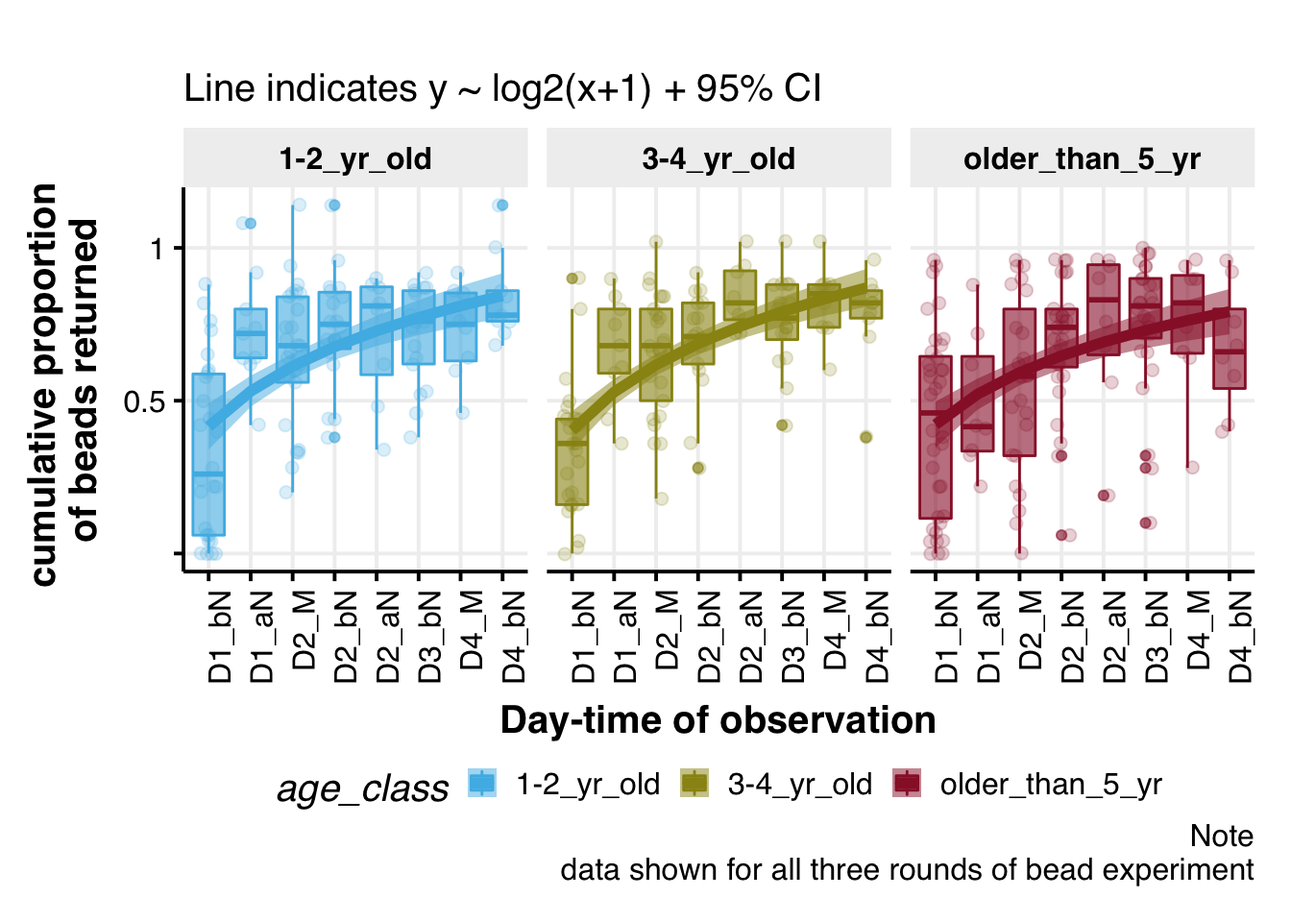
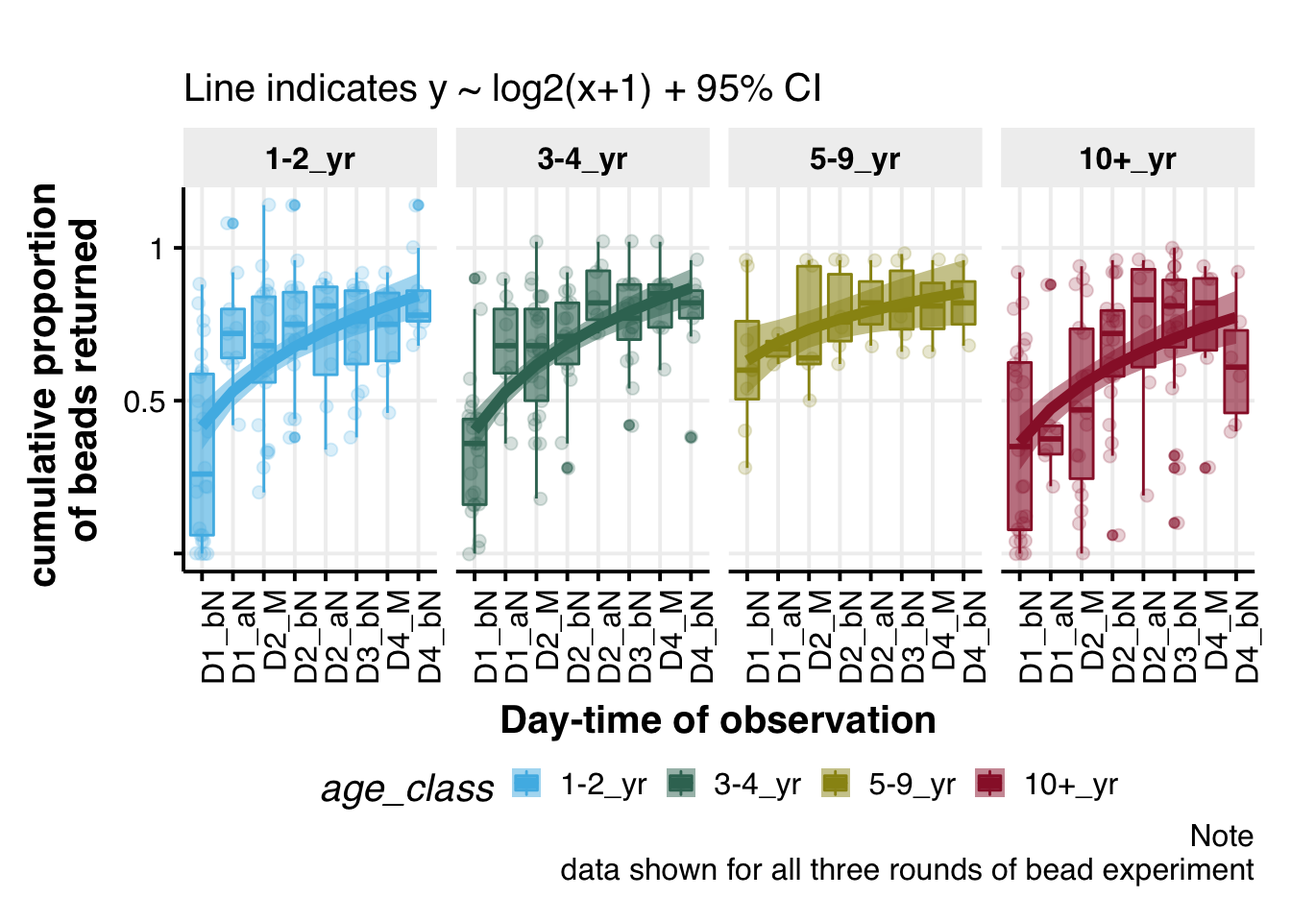
prelim analyses I

diff --git a/docs/bead_data_2022.html b/docs/bead_data_2022.html
@@ -437,11 +437,13 @@ div.tocify {
 
 <h1 class="title toc-ignore">Deborah_bead_data</h1>
 <h4 class="author">Biplabendu Das</h4>
-<h4 class="date">05 September, 2022</h4>
+<h4 class="date">06 September, 2022</h4>
 
 </div>
 
 
+<pre class="r"><code>## Set color scheme for age classes
+age_colors &lt;- c(&quot;#4EB9E6&quot;, &quot;#397362&quot;, &quot;#999215&quot;, &quot;#991D34&quot;, &quot;#F29544&quot;)</code></pre>
 <div id="overviewgoals" class="section level2">
 <h2>Overview/Goals</h2>
 <p>Email from Deborah:</p>
@@ -685,7 +687,7 @@ old.summ %&gt;%
                 y=cum_prop, group=ID, col=ID),
             size=2,
             alpha=0.6) +
-  facet_grid(~ID) +
+  facet_wrap(~ID, nrow = 2) +
   theme_Publication(base_size = 10) +
   # scale_color_manual(values=c(&quot;darkgreen&quot;,&quot;darkred&quot;)) +
   
@@ -723,8 +725,8 @@ old.summ %&gt;%
   # scale_fill_viridis_d(option=&quot;cividis&quot;) +
   # scale_color_viridis_d(option = &quot;cividis&quot;)
   
-  scale_fill_manual(values = c(&quot;#4EB9E6&quot;, &quot;#999215&quot;, &quot;#991D34&quot;)) +
-  scale_color_manual(values = c(&quot;#4EB9E6&quot;, &quot;#999215&quot;, &quot;#991D34&quot;)) +
+  scale_fill_manual(values = age_colors) +
+  scale_color_manual(values = age_colors) +
   
   labs(x = &quot;Day-time of observation&quot;,
        y= &quot;cumulative proportion \nof beads returned&quot;,
@@ -858,7 +860,14 @@ tidydat &lt;- rbind(old.summ, tidydat.2022) %&gt;%
                                levels = c(&quot;D1_bN&quot;, &quot;D1_aN&quot;,
                                           &quot;D2_M&quot;, &quot;D2_bN&quot;, &quot;D2_aN&quot;,
                                           &quot;D3_bN&quot;,
-                                          &quot;D4_M&quot;, &quot;D4_bN&quot;)))
+                                          &quot;D4_M&quot;, &quot;D4_bN&quot;))) %&gt;% 
+  mutate(age_class = ifelse(age_obs &lt;= 2, &quot;1-2_yr&quot;,
+                            ifelse(age_obs &gt; 2 &amp; age_obs &lt;= 4, &quot;3-4_yr&quot;,
+                                   ifelse(age_obs &gt;=5 &amp; age_obs &lt; 10, &quot;5-9_yr&quot;,
+                                                 &quot;10+_yr&quot;)))) %&gt;% 
+  mutate(age_class = factor(age_class, 
+                            levels = c(&quot;1-2_yr&quot;, &quot;3-4_yr&quot;,
+                                       &quot;5-9_yr&quot;, &quot;10+_yr&quot;)))
 
 # # use only 2022 data
 # tidydat &lt;- tidydat.2022</code></pre>
@@ -880,7 +889,7 @@ tidydat &lt;- rbind(old.summ, tidydat.2022) %&gt;%
               aes(color=age_class)) +
   # geom_smooth(method = &quot;lm&quot;, formula = y~x, alpha=0.3, aes(color=age_class, lty=age_class)) +
   
-  facet_grid(~bead_color) +
+  facet_wrap(~bead_color, nrow = 1) +
   # coord_flip() +
   # scale_y_continuous(n.breaks = 3,
   #                    labels = c(&quot;&quot;,&quot;0.5&quot;, &quot;1&quot;)) +
@@ -894,8 +903,8 @@ tidydat &lt;- rbind(old.summ, tidydat.2022) %&gt;%
   # scale_fill_viridis_d(option=&quot;cividis&quot;) +
   # scale_color_viridis_d(option = &quot;cividis&quot;)
   
-  scale_fill_manual(values = c(&quot;#4EB9E6&quot;, &quot;#999215&quot;, &quot;#991D34&quot;)) +
-  scale_color_manual(values = c(&quot;#4EB9E6&quot;, &quot;#999215&quot;, &quot;#991D34&quot;)) +
+  scale_fill_manual(values = age_colors) +
+  scale_color_manual(values = age_colors) +
   
   labs(x = &quot;Day-time of observation&quot;,
        y= &quot;cumulative proportion \nof beads returned&quot;,
@@ -935,8 +944,8 @@ tidydat %&gt;%
   # rotate x-axis lables
   theme(axis.text.x=element_text(angle=90,hjust=1))+
   
-  scale_fill_manual(values = c(&quot;#4EB9E6&quot;, &quot;#999215&quot;, &quot;#991D34&quot;)) +
-  scale_color_manual(values = c(&quot;#4EB9E6&quot;, &quot;#999215&quot;, &quot;#991D34&quot;)) +
+  scale_fill_manual(values = age_colors) +
+  scale_color_manual(values = age_colors) +
   
   labs(x = &quot;Day-time of observation&quot;,
        y= &quot;cumulative proportion \nof beads returned&quot;,
@@ -973,8 +982,8 @@ tidydat %&gt;%
   # rotate x-axis lables
   theme(axis.text.x=element_text(angle=90,hjust=1))+
   
-  scale_fill_manual(values = c(&quot;#4EB9E6&quot;, &quot;#999215&quot;, &quot;#991D34&quot;)) +
-  scale_color_manual(values = c(&quot;#4EB9E6&quot;, &quot;#999215&quot;, &quot;#991D34&quot;)) +
+  scale_fill_manual(values = age_colors) +
+  scale_color_manual(values = age_colors) +
   
   labs(x = &quot;Day-time of observation&quot;,
        y= &quot;cumulative proportion \nof beads returned&quot;,
@@ -994,6 +1003,7 @@ tidydat %&gt;%
 <blockquote>
 <p>cumulative number of beads returned / possible number of incoming foragers on Day 1</p>
 </blockquote>
+<p>I am using the total number of foragers going in and out of the colony, for 30 secs, on Day 1 as a proxy for the possible number of incoming foragers.</p>
 <pre class="r"><code># set path to your working directory (change, if necessary)
 path_to_repo2 = &quot;/Users/biplabendudas/Documents/05_postdoc/Deborah_Gordon/04_research/2022/01_field_season_2022/04_field_work/02_rprojects/01_checking_data&quot;
 
@@ -1047,9 +1057,10 @@ tidy.for &lt;-
   select(-first_obs, -second_obs, -was_it_raining) %&gt;% 
   
   
-  group_by(date,observer,colony_ID) %&gt;% 
+  group_by(date,observer,colony_ID,time) %&gt;% 
   mutate(tot_in = sum(in_1,in_2,in_3,in_4,in_5,in_6,in_7,in_8, na.rm = T),
          tot_out = sum(out_1,out_2,out_3,out_4,out_5,out_6,out_7,out_8, na.rm=T)) %&gt;% 
+  mutate(foraging_30s = tot_in+tot_out) %&gt;% 
   ungroup() %&gt;% 
   
   mutate(colony_ID = as.factor(colony_ID),
@@ -1095,13 +1106,13 @@ tidy.for %&lt;&gt;%
   
   mutate(date = as.character(date)) %&gt;% 
   filter(date %in% unique(as.character(bead.dates$date))) %&gt;% 
-  mutate(date = as.Date(date)) %&gt;% 
+  mutate(date = as.Date(date)) %&gt;%
   
   filter(colony_ID %in% bead.colonies) %&gt;% 
   
   left_join(bead.dates, by=c(&quot;date&quot;)) %&gt;% 
 
-  select(date, bead_color, colony_ID, obs_day, time, tot_in, tot_out) %&gt;% 
+  select(date, bead_color, colony_ID, obs_day, time, tot_in, tot_out, foraging_30s) %&gt;% 
   distinct() %&gt;% 
   arrange(bead_color, colony_ID, date) %&gt;% 
   ungroup()
@@ -1117,7 +1128,7 @@ s.tidydat.2022 &lt;-
   
   na.omit() %&gt;% 
   
-  mutate(s_cum_prop = round(cum_prop/tot_in, 2)) %&gt;% 
+  mutate(s_cum_prop = round(cum_prop/foraging_30s, 2)) %&gt;% 
   
   na.omit() %&gt;% 
   filter(s_cum_prop &lt;= 1) %&gt;% 
@@ -1170,7 +1181,14 @@ s.tidydat &lt;-
                                levels = c(&quot;D1_bN&quot;, &quot;D1_aN&quot;,
                                           &quot;D2_M&quot;, &quot;D2_bN&quot;, &quot;D2_aN&quot;,
                                           &quot;D3_bN&quot;,
-                                          &quot;D4_M&quot;, &quot;D4_bN&quot;)))</code></pre>
+                                          &quot;D4_M&quot;, &quot;D4_bN&quot;))) %&gt;% 
+  mutate(age_class = ifelse(age_obs &lt;= 2, &quot;1-2_yr&quot;,
+                            ifelse(age_obs &gt; 2 &amp; age_obs &lt;= 4, &quot;3-4_yr&quot;,
+                                   ifelse(age_obs &gt;=5 &amp; age_obs &lt; 10, &quot;5-9_yr&quot;,
+                                                 &quot;10+_yr&quot;)))) %&gt;% 
+  mutate(age_class = factor(age_class, 
+                            levels = c(&quot;1-2_yr&quot;, &quot;3-4_yr&quot;,
+                                       &quot;5-9_yr&quot;, &quot;10+_yr&quot;)))</code></pre>
 <pre class="r"><code>s.tidydat %&gt;% 
   
   ggplot(aes(x=counted_when, y=s_cum_prop, fill=age_class, color=age_class, group=age_class)) +
@@ -1183,7 +1201,7 @@ s.tidydat &lt;-
               aes(color=age_class)) +
   # geom_smooth(method = &quot;lm&quot;, formula = y~x, alpha=0.3, aes(color=age_class, lty=age_class)) +
   
-  facet_grid(~bead_color) +
+  facet_wrap(~bead_color, nrow = 1) +
   # coord_flip() +
   # scale_y_continuous(n.breaks = 3, labels = c(&quot;&quot;,&quot;0.5&quot;, &quot;1&quot;)) +
   
@@ -1196,8 +1214,8 @@ s.tidydat &lt;-
   # scale_fill_viridis_d(option=&quot;cividis&quot;) +
   # scale_color_viridis_d(option = &quot;cividis&quot;)
   
-  scale_fill_manual(values = c(&quot;#4EB9E6&quot;, &quot;#999215&quot;, &quot;#991D34&quot;)) +
-  scale_color_manual(values = c(&quot;#4EB9E6&quot;, &quot;#999215&quot;, &quot;#991D34&quot;)) +
+  scale_fill_manual(values = age_colors) +
+  scale_color_manual(values = age_colors) +
   
   labs(x = &quot;Day-time of observation&quot;,
        y= &quot;cumulative proportion \nof beads returned&quot;,
@@ -1234,8 +1252,8 @@ s.tidydat %&gt;%
   # rotate x-axis lables
   theme(axis.text.x=element_text(angle=90,hjust=1))+
   
-  scale_fill_manual(values = c(&quot;#4EB9E6&quot;, &quot;#999215&quot;, &quot;#991D34&quot;)) +
-  scale_color_manual(values = c(&quot;#4EB9E6&quot;, &quot;#999215&quot;, &quot;#991D34&quot;)) +
+  scale_fill_manual(values = age_colors) +
+  scale_color_manual(values = age_colors) +
   
   labs(x = &quot;Day-time of observation&quot;,
        y= &quot;cumulative proportion \nof beads returned&quot;,
@@ -1269,8 +1287,8 @@ s.tidydat %&gt;%
   # rotate x-axis lables
   theme(axis.text.x=element_text(angle=90,hjust=1))+
   
-  scale_fill_manual(values = c(&quot;#4EB9E6&quot;, &quot;#999215&quot;, &quot;#991D34&quot;)) +
-  scale_color_manual(values = c(&quot;#4EB9E6&quot;, &quot;#999215&quot;, &quot;#991D34&quot;)) +
+  scale_fill_manual(values = age_colors) +
+  scale_color_manual(values = age_colors) +
   
   labs(x = &quot;Day-time of observation&quot;,
        y= &quot;cumulative proportion \nof beads returned&quot;,
@@ -1278,6 +1296,53 @@ s.tidydat %&gt;%
        caption = &quot;Note
        data shown for all three rounds of bead experiment&quot;)</code></pre>
 <p><img src="bead_data_2022_files/figure-html/plot_normalized_bead_returns-3.png" width="672" /></p>
+</div>
+<div id="prelim-analyses-i" class="section level2">
+<h2>Prelim Analyses I</h2>
+<pre class="r"><code>s.tidydat.mod &lt;- s.tidydat %&gt;% mutate(log_s_cum_prop = log2(s_cum_prop+1))
+
+
+mod.full &lt;- lme4::lmer(log_s_cum_prop ~ age_class + counted_when + (1|colonyID) + (1|bead_color) ,
+                 data=s.tidydat.mod, REML=F)
+mod.red.1 &lt;- lme4::lmer(log_s_cum_prop ~ counted_when + (1|colonyID) + (1|bead_color) ,
+                 data=s.tidydat.mod, REML=F)
+anova(mod.full, mod.red.1, test=&quot;Chisq&quot;)</code></pre>
+<pre><code>## Data: s.tidydat.mod
+## Models:
+## mod.red.1: log_s_cum_prop ~ counted_when + (1 | colonyID) + (1 | bead_color)
+## mod.full: log_s_cum_prop ~ age_class + counted_when + (1 | colonyID) + 
+## mod.full:     (1 | bead_color)
+##           Df     AIC     BIC logLik deviance  Chisq Chi Df Pr(&gt;Chisq)   
+## mod.red.1 11 -1695.1 -1652.7 858.55  -1717.1                            
+## mod.full  14 -1704.7 -1650.8 866.37  -1732.7 15.642      3   0.001343 **
+## ---
+## Signif. codes:  0 &#39;***&#39; 0.001 &#39;**&#39; 0.01 &#39;*&#39; 0.05 &#39;.&#39; 0.1 &#39; &#39; 1</code></pre>
+<pre class="r"><code>## Let&#39;s look at the summary of the model
+lmerTest::ranova(mod.full)</code></pre>
+<pre><code>## ANOVA-like table for random-effects: Single term deletions
+## 
+## Model:
+## log_s_cum_prop ~ age_class + counted_when + (1 | colonyID) + (1 | bead_color)
+##                  npar logLik     AIC     LRT Df Pr(&gt;Chisq)    
+## &lt;none&gt;             14 866.37 -1704.7                          
+## (1 | colonyID)     13 804.10 -1582.2 124.548  1  &lt; 2.2e-16 ***
+## (1 | bead_color)   13 853.92 -1681.8  24.904  1  6.027e-07 ***
+## ---
+## Signif. codes:  0 &#39;***&#39; 0.001 &#39;**&#39; 0.01 &#39;*&#39; 0.05 &#39;.&#39; 0.1 &#39; &#39; 1</code></pre>
+<pre class="r"><code>## Calculate the p-values for the fixed effects
+## Source: https://mspeekenbrink.github.io/sdam-r-companion/linear-mixed-effects-models.html
+afex::mixed(log_s_cum_prop ~ age_class + counted_when + (1|colonyID) + (1|bead_color) ,
+                 data=s.tidydat.mod, check_contrasts = T, test_intercept = F, method=&quot;KR&quot;)</code></pre>
+<pre><code>## Mixed Model Anova Table (Type 3 tests, KR-method)
+## 
+## Model: log_s_cum_prop ~ age_class + counted_when + (1 | colonyID) + 
+## Model:     (1 | bead_color)
+## Data: s.tidydat.mod
+##         Effect        df         F p.value
+## 1    age_class  3, 29.35   5.93 **    .003
+## 2 counted_when 7, 305.82 10.41 ***   &lt;.001
+## ---
+## Signif. codes:  0 &#39;***&#39; 0.001 &#39;**&#39; 0.01 &#39;*&#39; 0.05 &#39;+&#39; 0.1 &#39; &#39; 1</code></pre>
 <hr />
 </div>
 <div id="extras" class="section level2">
@@ -1286,7 +1351,7 @@ s.tidydat %&gt;%
   select(colonyID, age_obs, bead_color, date, counted_when, cum_prop, s_cum_prop) %&gt;% 
   DT::datatable(rownames = F)</code></pre>
 <div id="htmlwidget-a4a7814db74a3252d700" style="width:100%;height:auto;" class="datatables html-widget"></div>
-<script type="application/json" data-for="htmlwidget-a4a7814db74a3252d700">{"x":{"filter":"none","data":[["810","810","810","810","810","810","922","922","922","922","922","922","961","961","961","969","969","969","1131","1131","1131","1131","1131","1131","1288","1288","1288","1338","1338","1338","1368","1368","1368","1393","1393","1393","1581","1581","1581","1581","1587","1587","1587","1587","1570","1570","1570","1570","1541","1541","1541","1541","1542","1542","1542","1542","1571","1571","1571","1571","1536","1536","1536","1536","1536","1536","1536","1536","1587","1587","1587","1587","1587","1570","1570","1570","1570","1570","1541","1541","1541","1541","1541","1542","1542","1542","1542","1542","1533","1533","1533","1533","1533","1552","1552","1552","1552","1552","1581","1581","1581","1581","1581","1587","1587","1587","1587","1587","1541","1541","1541","1541","1541","1542","1542","1542","1542","1542","1536","1536","1536","1536","1536","1536","1536","1536","1536","1536","1533","1533","1533","1533","1533","1504","1504","1504","1504","1506","1506","1506","1506","1512","1512","1512","1512","1559","1559","1559","1559","1486","1486","1486","1486","1504","1504","1504","1504","1504","1506","1506","1506","1506","1506","1512","1512","1512","1512","1512","1559","1559","1559","1559","1559","1486","1486","1486","1486","1486","1503","1503","1503","1503","1503","1512","1512","1512","1512","1512","1559","1559","1559","1559","1559","1546","1546","1546","1546","1546","1486","1486","1486","1486","1486","1503","1503","1503","1503","1503","1452","1452","1452","1452","1450","1450","1450","1450","1440","1440","1440","1440","1452","1452","1452","1452","1452","1450","1450","1450","1450","1450","1452","1452","1452","1452","1452","1450","1450","1450","1450","1450","1440","1440","1440","1440","1440","1393","1393","1393","1393","1393","1393","1393","1393","1393","1393","1368","1368","1368","1368","1368","1368","1368","1368","1368","1368","1368","1368","1368","1368","1288","1288","1288","1288","1317","1317","1317","1317","1317","1288","1288","1288","1288","1288","1233","1233","1233","1233","1242","1242","1242","1242","1233","1233","1233","1233","1233","1242","1242","1242","1242","1242","1233","1233","1233","1233","1233","1242","1242","1242","1242","1242","1107","1107","1107","1107","1107","1107","1107","1107","1107","1017","1017","1017","1017","1017","1017","1017","1017","1017","1017","1131","1131","1131","1131","1131","1131","1131","1131","1131","810","810","810","810","810","810","810","810","810","810","810","810","810","810"],[24,24,24,24,24,24,21,21,21,21,21,21,21,21,21,21,21,21,20,20,20,20,20,20,10,10,10,7,7,7,7,7,7,6,6,6,2,2,2,2,2,2,2,2,2,2,2,2,2,2,2,2,2,2,2,2,2,2,2,2,2,2,2,2,2,2,2,2,2,2,2,2,2,2,2,2,2,2,2,2,2,2,2,2,2,2,2,2,2,2,2,2,2,2,2,2,2,2,2,2,2,2,2,2,2,2,2,2,2,2,2,2,2,2,2,2,2,2,2,2,2,2,2,2,2,2,2,2,2,2,2,2,2,3,3,3,3,3,3,3,3,3,3,3,3,3,3,3,3,3,3,3,3,3,3,3,3,3,3,3,3,3,3,3,3,3,3,3,3,3,3,3,3,3,3,3,3,3,3,3,3,3,3,3,3,3,3,3,3,3,3,3,3,3,3,3,3,3,3,3,3,3,3,3,3,3,3,3,4,4,4,4,4,4,4,4,4,4,4,4,4,4,4,4,4,4,4,4,4,4,4,4,4,4,4,4,4,4,4,4,4,4,4,4,4,7,7,7,7,7,7,7,7,7,7,8,8,8,8,8,8,8,8,8,8,8,8,8,8,11,11,11,11,11,11,11,11,11,11,11,11,11,11,12,12,12,12,12,12,12,12,12,12,12,12,12,12,12,12,12,12,12,12,12,12,12,12,12,12,12,12,17,17,17,17,17,17,17,17,17,20,20,20,20,20,20,20,20,20,20,21,21,21,21,21,21,21,21,21,25,25,25,25,25,25,25,25,25,25,25,25,25,25],["green-21","green-21","green-21","pink-21","pink-21","pink-21","green-21","green-21","green-21","pink-21","pink-21","pink-21","green-21","green-21","green-21","green-21","green-21","green-21","green-21","green-21","green-21","pink-21","pink-21","pink-21","pink-21","pink-21","pink-21","green-21","green-21","green-21","pink-21","pink-21","pink-21","green-21","green-21","green-21","pink","pink","pink","pink","pink","pink","pink","pink","pink","pink","pink","pink","pink","pink","pink","pink","pink","pink","pink","pink","pink","pink","pink","pink","pink","pink","pink","pink","pink","pink","pink","pink","green","green","green","green","green","green","green","green","green","green","green","green","green","green","green","green","green","green","green","green","green","green","green","green","green","blue","blue","blue","blue","blue","blue","blue","blue","blue","blue","blue","blue","blue","blue","blue","blue","blue","blue","blue","blue","blue","blue","blue","blue","blue","blue","blue","blue","blue","blue","blue","blue","blue","blue","blue","blue","blue","blue","blue","blue","pink","pink","pink","pink","pink","pink","pink","pink","pink","pink","pink","pink","pink","pink","pink","pink","pink","pink","pink","pink","green","green","green","green","green","green","green","green","green","green","green","green","green","green","green","green","green","green","green","green","green","green","green","green","green","green","green","green","green","green","blue","blue","blue","blue","blue","blue","blue","blue","blue","blue","blue","blue","blue","blue","blue","blue","blue","blue","blue","blue","blue","blue","blue","blue","blue","pink","pink","pink","pink","pink","pink","pink","pink","pink","pink","pink","pink","green","green","green","green","green","green","green","green","green","green","blue","blue","blue","blue","blue","blue","blue","blue","blue","blue","blue","blue","blue","blue","blue","green","green","green","green","green","blue","blue","blue","blue","blue","pink","pink","pink","pink","green","green","green","green","green","blue","blue","blue","blue","blue","pink","pink","pink","pink","blue","blue","blue","blue","blue","blue","blue","blue","blue","blue","pink","pink","pink","pink","pink","pink","pink","pink","green","green","green","green","green","green","green","green","green","green","blue","blue","blue","blue","blue","blue","blue","blue","blue","blue","pink","pink","pink","pink","green","green","green","green","green","green","green","green","green","green","blue","blue","blue","blue","blue","pink","pink","pink","pink","green","green","green","green","green","pink","pink","pink","pink","green","green","green","green","green","blue","blue","blue","blue","blue"],["2021-08-24","2021-08-25","2021-08-26","2021-08-26","2021-08-27","2021-08-28","2021-08-23","2021-08-24","2021-08-25","2021-08-25","2021-08-26","2021-08-27","2021-08-24","2021-08-25","2021-08-26","2021-08-24","2021-08-25","2021-08-26","2021-08-23","2021-08-24","2021-08-25","2021-08-25","2021-08-26","2021-08-27","2021-08-26","2021-08-27","2021-08-28","2021-08-23","2021-08-24","2021-08-25","2021-08-25","2021-08-26","2021-08-27","2021-08-23","2021-08-24","2021-08-25","2022-08-16","2022-08-16","2022-08-16","2022-08-16","2022-08-16","2022-08-16","2022-08-16","2022-08-16","2022-08-16","2022-08-16","2022-08-16","2022-08-16","2022-08-16","2022-08-16","2022-08-16","2022-08-16","2022-08-16","2022-08-16","2022-08-16","2022-08-16","2022-08-16","2022-08-16","2022-08-16","2022-08-16","2022-08-16","2022-08-16","2022-08-16","2022-08-16","2022-08-16","2022-08-16","2022-08-16","2022-08-16","2022-08-22","2022-08-22","2022-08-22","2022-08-22","2022-08-22","2022-08-22","2022-08-22","2022-08-22","2022-08-22","2022-08-22","2022-08-22","2022-08-22","2022-08-22","2022-08-22","2022-08-22","2022-08-22","2022-08-22","2022-08-22","2022-08-22","2022-08-22","2022-08-22","2022-08-22","2022-08-22","2022-08-22","2022-08-22","2022-08-26","2022-08-26","2022-08-26","2022-08-26","2022-08-26","2022-08-26","2022-08-26","2022-08-26","2022-08-26","2022-08-26","2022-08-26","2022-08-26","2022-08-26","2022-08-26","2022-08-26","2022-08-26","2022-08-26","2022-08-26","2022-08-26","2022-08-26","2022-08-26","2022-08-26","2022-08-26","2022-08-26","2022-08-26","2022-08-26","2022-08-26","2022-08-26","2022-08-26","2022-08-26","2022-08-26","2022-08-26","2022-08-26","2022-08-26","2022-08-26","2022-08-26","2022-08-26","2022-08-26","2022-08-26","2022-08-26","2022-08-16","2022-08-16","2022-08-16","2022-08-16","2022-08-16","2022-08-16","2022-08-16","2022-08-16","2022-08-16","2022-08-16","2022-08-16","2022-08-16","2022-08-16","2022-08-16","2022-08-16","2022-08-16","2022-08-16","2022-08-16","2022-08-16","2022-08-16","2022-08-22","2022-08-22","2022-08-22","2022-08-22","2022-08-22","2022-08-22","2022-08-22","2022-08-22","2022-08-22","2022-08-22","2022-08-22","2022-08-22","2022-08-22","2022-08-22","2022-08-22","2022-08-22","2022-08-22","2022-08-22","2022-08-22","2022-08-22","2022-08-22","2022-08-22","2022-08-22","2022-08-22","2022-08-22","2022-08-22","2022-08-22","2022-08-22","2022-08-22","2022-08-22","2022-08-26","2022-08-26","2022-08-26","2022-08-26","2022-08-26","2022-08-26","2022-08-26","2022-08-26","2022-08-26","2022-08-26","2022-08-26","2022-08-26","2022-08-26","2022-08-26","2022-08-26","2022-08-26","2022-08-26","2022-08-26","2022-08-26","2022-08-26","2022-08-26","2022-08-26","2022-08-26","2022-08-26","2022-08-26","2022-08-16","2022-08-16","2022-08-16","2022-08-16","2022-08-16","2022-08-16","2022-08-16","2022-08-16","2022-08-16","2022-08-16","2022-08-16","2022-08-16","2022-08-22","2022-08-22","2022-08-22","2022-08-22","2022-08-22","2022-08-22","2022-08-22","2022-08-22","2022-08-22","2022-08-22","2022-08-26","2022-08-26","2022-08-26","2022-08-26","2022-08-26","2022-08-26","2022-08-26","2022-08-26","2022-08-26","2022-08-26","2022-08-26","2022-08-26","2022-08-26","2022-08-26","2022-08-26","2022-08-22","2022-08-22","2022-08-22","2022-08-22","2022-08-22","2022-08-26","2022-08-26","2022-08-26","2022-08-26","2022-08-26","2022-08-16","2022-08-16","2022-08-16","2022-08-16","2022-08-22","2022-08-22","2022-08-22","2022-08-22","2022-08-22","2022-08-26","2022-08-26","2022-08-26","2022-08-26","2022-08-26","2022-08-16","2022-08-16","2022-08-16","2022-08-16","2022-08-26","2022-08-26","2022-08-26","2022-08-26","2022-08-26","2022-08-26","2022-08-26","2022-08-26","2022-08-26","2022-08-26","2022-08-16","2022-08-16","2022-08-16","2022-08-16","2022-08-16","2022-08-16","2022-08-16","2022-08-16","2022-08-22","2022-08-22","2022-08-22","2022-08-22","2022-08-22","2022-08-22","2022-08-22","2022-08-22","2022-08-22","2022-08-22","2022-08-26","2022-08-26","2022-08-26","2022-08-26","2022-08-26","2022-08-26","2022-08-26","2022-08-26","2022-08-26","2022-08-26","2022-08-16","2022-08-16","2022-08-16","2022-08-16","2022-08-22","2022-08-22","2022-08-22","2022-08-22","2022-08-22","2022-08-22","2022-08-22","2022-08-22","2022-08-22","2022-08-22","2022-08-26","2022-08-26","2022-08-26","2022-08-26","2022-08-26","2022-08-16","2022-08-16","2022-08-16","2022-08-16","2022-08-22","2022-08-22","2022-08-22","2022-08-22","2022-08-22","2022-08-16","2022-08-16","2022-08-16","2022-08-16","2022-08-22","2022-08-22","2022-08-22","2022-08-22","2022-08-22","2022-08-26","2022-08-26","2022-08-26","2022-08-26","2022-08-26"],["D1_bN","D2_bN","D3_bN","D1_bN","D2_bN","D3_bN","D1_bN","D2_bN","D3_bN","D1_bN","D2_bN","D3_bN","D1_bN","D2_bN","D3_bN","D1_bN","D2_bN","D3_bN","D1_bN","D2_bN","D3_bN","D1_bN","D2_bN","D3_bN","D1_bN","D2_bN","D3_bN","D1_bN","D2_bN","D3_bN","D1_bN","D2_bN","D3_bN","D1_bN","D2_bN","D3_bN","D1_bN","D2_M","D2_bN","D3_bN","D1_bN","D2_M","D2_bN","D3_bN","D1_bN","D2_M","D2_bN","D3_bN","D1_bN","D2_M","D2_bN","D3_bN","D1_bN","D2_M","D2_bN","D3_bN","D1_bN","D2_M","D2_bN","D3_bN","D1_bN","D1_bN","D2_M","D2_M","D2_bN","D2_bN","D3_bN","D3_bN","D1_bN","D1_aN","D2_M","D2_bN","D4_bN","D1_bN","D1_aN","D2_M","D2_bN","D4_bN","D1_bN","D1_aN","D2_M","D2_bN","D4_bN","D1_bN","D1_aN","D2_M","D2_bN","D4_bN","D1_bN","D1_aN","D2_M","D2_bN","D4_bN","D1_bN","D2_M","D2_aN","D3_bN","D4_M","D1_bN","D2_M","D2_aN","D3_bN","D4_M","D1_bN","D2_M","D2_aN","D3_bN","D4_M","D1_bN","D2_M","D2_aN","D3_bN","D4_M","D1_bN","D2_M","D2_aN","D3_bN","D4_M","D1_bN","D1_bN","D2_M","D2_M","D2_aN","D2_aN","D3_bN","D3_bN","D4_M","D4_M","D1_bN","D2_M","D2_aN","D3_bN","D4_M","D1_bN","D2_M","D2_bN","D3_bN","D1_bN","D2_M","D2_bN","D3_bN","D1_bN","D2_M","D2_bN","D3_bN","D1_bN","D2_M","D2_bN","D3_bN","D1_bN","D2_M","D2_bN","D3_bN","D1_bN","D1_aN","D2_M","D2_bN","D4_bN","D1_bN","D1_aN","D2_M","D2_bN","D4_bN","D1_bN","D1_aN","D2_M","D2_bN","D4_bN","D1_bN","D1_aN","D2_M","D2_bN","D4_bN","D1_bN","D1_aN","D2_M","D2_bN","D4_bN","D1_bN","D1_aN","D2_M","D2_bN","D4_bN","D1_bN","D2_M","D2_aN","D3_bN","D4_M","D1_bN","D2_M","D2_aN","D3_bN","D4_M","D1_bN","D2_M","D2_aN","D3_bN","D4_M","D1_bN","D2_M","D2_aN","D3_bN","D4_M","D1_bN","D2_M","D2_aN","D3_bN","D4_M","D1_bN","D2_M","D2_bN","D3_bN","D1_bN","D2_M","D2_bN","D3_bN","D1_bN","D2_M","D2_bN","D3_bN","D1_bN","D1_aN","D2_M","D2_bN","D4_bN","D1_bN","D1_aN","D2_M","D2_bN","D4_bN","D1_bN","D2_M","D2_aN","D3_bN","D4_M","D1_bN","D2_M","D2_aN","D3_bN","D4_M","D1_bN","D2_M","D2_aN","D3_bN","D4_M","D1_bN","D1_aN","D2_M","D2_bN","D4_bN","D1_bN","D2_M","D2_aN","D3_bN","D4_M","D1_bN","D2_M","D2_bN","D3_bN","D1_bN","D1_aN","D2_M","D2_bN","D4_bN","D1_bN","D2_M","D2_aN","D3_bN","D4_M","D1_bN","D2_M","D2_bN","D3_bN","D1_bN","D2_M","D2_aN","D3_bN","D4_M","D1_bN","D2_M","D2_aN","D3_bN","D4_M","D1_bN","D2_M","D2_bN","D3_bN","D1_bN","D2_M","D2_bN","D3_bN","D1_bN","D1_aN","D2_M","D2_bN","D4_bN","D1_bN","D1_aN","D2_M","D2_bN","D4_bN","D1_bN","D2_M","D2_aN","D3_bN","D4_M","D1_bN","D2_M","D2_aN","D3_bN","D4_M","D1_bN","D2_M","D2_bN","D3_bN","D1_bN","D1_aN","D2_M","D2_bN","D4_bN","D1_bN","D1_aN","D2_M","D2_bN","D4_bN","D1_bN","D2_M","D2_aN","D3_bN","D4_M","D1_bN","D2_M","D2_bN","D3_bN","D1_bN","D1_aN","D2_M","D2_bN","D4_bN","D1_bN","D2_M","D2_bN","D3_bN","D1_bN","D1_aN","D2_M","D2_bN","D4_bN","D1_bN","D2_M","D2_aN","D3_bN","D4_M"],[0.6,0.92,0.98,0.58,0.76,0.88,0.8,0.8,0.82,0.62,0.7,0.74,0.36,0.78,0.88,0.52,0.92,0.94,0.22,0.58,0.72,0.64,0.7,0.76,0.92,0.96,1,0.6,0.74,0.82,0.7,0.775,0.775,0.96,0.96,0.98,0.59,0.64,0.74,0.76,0.6,0.6,0.86,0.88,0.06,0.33,0.62,0.74,0.2,0.28,0.44,0.46,0.65,0.85,0.87,0.87,0.06,0.58,0.87,0.87,0.04,0.04,0.33,0.33,0.44,0.44,0.53,0.53,0.28,0.64,0.7,0.7,0.76,0.4,0.64,0.66,0.7,0.78,0.58,0.92,0.94,0.96,1,0.22,0.74,0.84,0.84,0.86,0.88,1.08,1.14,1.14,1.14,0.73,0.85,0.87,0.85,0.85,0.76,0.86,0.9,0.86,0.86,0.5,0.56,0.62,0.62,0.64,0.08,0.68,0.82,0.68,0.74,0.22,0.74,0.8,0.76,0.76,0,0,0.42,0.42,0.48,0.48,0.52,0.52,0.6,0.6,0.82,0.88,0.88,0.92,0.92,0.44,0.58,0.6,0.64,0.14,0.5,0.62,0.74,0.44,0.44,0.72,0.72,0.34,0.36,0.68,0.82,0.5,0.56,0.82,0.82,0.19,0.59,0.69,0.71,0.71,0.36,0.68,0.76,0.86,0.86,0.45,0.61,0.67,0.77,0.79,0.8,0.9,0.9,0.92,0.96,0.3,0.36,0.36,0.36,0.38,0.57,0.75,0.77,0.77,0.77,0.26,0.84,0.84,0.88,0.88,0.36,0.84,0.94,0.88,0.88,0.16,0.66,0.72,0.72,0.74,0.16,0.42,0.72,0.54,0.6,0.04,0.66,0.8,0.74,0.74,0.02,0.18,0.28,0.42,0.41,0.45,0.57,0.63,0.48,0.7,0.7,0.88,0.44,0.44,0.68,0.68,0.82,0.42,0.8,0.8,0.82,0.82,0.16,0.78,0.78,0.8,0.82,0.2,0.88,0.92,0.88,0.88,0.9,1.02,1.02,1.02,1.02,0.28,0.62,0.64,0.68,0.68,0.54,0.62,0.68,0.66,0.66,0.4,0.5,0.62,0.72,0.6,0.72,0.94,0.96,0.96,0.94,0.96,0.96,0.96,0.96,0.34,0.58,0.58,0.6,0,0.19,0.19,0.28,0.28,0.38,0.72,0.76,0.74,0.74,0.12,0.42,0.78,0.82,0,0,0.06,0.1,0.56,0.88,0.9,0.92,0.92,0.04,0.32,0.32,0.36,0.4,0.7,0.88,0.94,0.9,0.9,0.12,0.48,0.56,0.54,0.64,0.04,0.22,0.8,0.8,0.22,0.22,0.32,0.42,0.42,0.07,0.41,0.46,0.53,0.58,0.66,0.94,0.96,0.94,0.94,0.1,0.14,0.66,0.66,0,0.42,0.74,0.76,0.76,0.04,0.1,0.32,0.32,0.08,0.34,0.58,0.62,0.64,0.82,0.86,0.9,0.9,0.9],[0.02,0.03,0.03,0.01,0.02,0.02,0.04,0.04,0.04,0.02,0.02,0.02,0.01,0.03,0.04,0.02,0.04,0.04,0,0.01,0.01,0.01,0.01,0.01,0.02,0.02,0.02,0.01,0.01,0.01,0.02,0.03,0.03,0.01,0.01,0.01,0.02,0.02,0.02,0.03,0.09,0.09,0.12,0.13,0.01,0.03,0.06,0.07,0.03,0.05,0.07,0.08,0.02,0.03,0.03,0.03,0.01,0.08,0.12,0.12,0,0.01,0.02,0.07,0.02,0.09,0.03,0.11,0.14,0.32,0.35,0.35,0.38,0.06,0.09,0.09,0.1,0.11,0.03,0.04,0.04,0.05,0.05,0.01,0.02,0.03,0.03,0.03,0.02,0.03,0.03,0.03,0.03,0.12,0.14,0.14,0.14,0.14,0.07,0.08,0.08,0.08,0.08,0.1,0.11,0.12,0.12,0.13,0.01,0.1,0.12,0.1,0.11,0.01,0.04,0.05,0.04,0.04,0,0,0.1,0.1,0.12,0.12,0.13,0.13,0.15,0.15,0.05,0.05,0.05,0.05,0.05,0.02,0.03,0.03,0.03,0.01,0.04,0.05,0.06,0.02,0.02,0.04,0.04,0.01,0.02,0.03,0.03,0.02,0.02,0.04,0.04,0.01,0.03,0.04,0.04,0.04,0.02,0.04,0.04,0.05,0.05,0.01,0.01,0.01,0.01,0.01,0.03,0.03,0.03,0.03,0.03,0,0.01,0.01,0.01,0.01,0.09,0.12,0.13,0.13,0.13,0,0.01,0.01,0.01,0.01,0.02,0.04,0.04,0.04,0.04,0.02,0.07,0.08,0.08,0.08,0,0.01,0.01,0.01,0.01,0,0.02,0.03,0.03,0.03,0,0.01,0.01,0.01,0.01,0.01,0.01,0.01,0.01,0.01,0.01,0.01,0.01,0.01,0.02,0.02,0.02,0.01,0.02,0.02,0.02,0.02,0,0.02,0.02,0.02,0.02,0.01,0.03,0.03,0.03,0.03,0.02,0.02,0.02,0.02,0.02,0.01,0.01,0.01,0.01,0.01,0.02,0.02,0.02,0.02,0.02,0.02,0.02,0.03,0.03,0.02,0.03,0.03,0.03,0.03,0.02,0.02,0.02,0.02,0.02,0.01,0.01,0.01,0.01,0,0.05,0.05,0.07,0.07,0.03,0.06,0.06,0.06,0.06,0.01,0.03,0.06,0.06,0,0,0.01,0.01,0.04,0.06,0.06,0.06,0.06,0.01,0.08,0.08,0.09,0.1,0.05,0.06,0.07,0.06,0.06,0.02,0.08,0.09,0.09,0.11,0,0.01,0.04,0.04,0.07,0.07,0.11,0.14,0.14,0,0.01,0.02,0.02,0.02,0.02,0.02,0.02,0.02,0.02,0.01,0.01,0.04,0.04,0,0.03,0.05,0.05,0.05,0,0,0.01,0.01,0,0.01,0.03,0.03,0.03,0.16,0.17,0.18,0.18,0.18]],"container":"<table class=\"display\">\n  <thead>\n    <tr>\n      <th>colonyID<\/th>\n      <th>age_obs<\/th>\n      <th>bead_color<\/th>\n      <th>date<\/th>\n      <th>counted_when<\/th>\n      <th>cum_prop<\/th>\n      <th>s_cum_prop<\/th>\n    <\/tr>\n  <\/thead>\n<\/table>","options":{"columnDefs":[{"className":"dt-right","targets":[1,5,6]}],"order":[],"autoWidth":false,"orderClasses":false}},"evals":[],"jsHooks":[]}</script>
+<script type="application/json" data-for="htmlwidget-a4a7814db74a3252d700">{"x":{"filter":"none","data":[["810","810","810","810","810","810","922","922","922","922","922","922","961","961","961","969","969","969","1131","1131","1131","1131","1131","1131","1288","1288","1288","1338","1338","1338","1368","1368","1368","1393","1393","1393","1581","1581","1581","1581","1587","1587","1587","1587","1570","1570","1570","1570","1541","1541","1541","1541","1542","1542","1542","1542","1571","1571","1571","1571","1536","1536","1536","1536","1536","1536","1536","1536","1587","1587","1587","1587","1587","1570","1570","1570","1570","1570","1541","1541","1541","1541","1541","1542","1542","1542","1542","1542","1533","1533","1533","1533","1533","1552","1552","1552","1552","1552","1581","1581","1581","1581","1581","1587","1587","1587","1587","1587","1541","1541","1541","1541","1541","1542","1542","1542","1542","1542","1536","1536","1536","1536","1536","1533","1533","1533","1533","1533","1504","1504","1504","1504","1506","1506","1506","1506","1512","1512","1512","1512","1559","1559","1559","1559","1486","1486","1486","1486","1504","1504","1504","1504","1504","1506","1506","1506","1506","1506","1512","1512","1512","1512","1512","1559","1559","1559","1559","1559","1486","1486","1486","1486","1486","1503","1503","1503","1503","1503","1512","1512","1512","1512","1512","1559","1559","1559","1559","1559","1546","1546","1546","1546","1546","1486","1486","1486","1486","1486","1503","1503","1503","1503","1503","1452","1452","1452","1452","1450","1450","1450","1450","1440","1440","1440","1440","1452","1452","1452","1452","1452","1450","1450","1450","1450","1450","1452","1452","1452","1452","1452","1450","1450","1450","1450","1450","1440","1440","1440","1440","1440","1393","1393","1393","1393","1393","1393","1393","1393","1393","1393","1368","1368","1368","1368","1368","1368","1368","1368","1368","1368","1368","1368","1368","1368","1288","1288","1288","1288","1317","1317","1317","1317","1317","1288","1288","1288","1288","1288","1233","1233","1233","1233","1242","1242","1242","1242","1233","1233","1233","1233","1233","1242","1242","1242","1242","1242","1233","1233","1233","1233","1233","1242","1242","1242","1242","1242","1107","1107","1107","1107","1107","1107","1107","1107","1107","1017","1017","1017","1017","1017","1017","1017","1017","1017","1017","1131","1131","1131","1131","1131","1131","1131","1131","1131","810","810","810","810","810","810","810","810","810","810","810","810","810","810"],[24,24,24,24,24,24,21,21,21,21,21,21,21,21,21,21,21,21,20,20,20,20,20,20,10,10,10,7,7,7,7,7,7,6,6,6,2,2,2,2,2,2,2,2,2,2,2,2,2,2,2,2,2,2,2,2,2,2,2,2,2,2,2,2,2,2,2,2,2,2,2,2,2,2,2,2,2,2,2,2,2,2,2,2,2,2,2,2,2,2,2,2,2,2,2,2,2,2,2,2,2,2,2,2,2,2,2,2,2,2,2,2,2,2,2,2,2,2,2,2,2,2,2,2,2,2,2,2,3,3,3,3,3,3,3,3,3,3,3,3,3,3,3,3,3,3,3,3,3,3,3,3,3,3,3,3,3,3,3,3,3,3,3,3,3,3,3,3,3,3,3,3,3,3,3,3,3,3,3,3,3,3,3,3,3,3,3,3,3,3,3,3,3,3,3,3,3,3,3,3,3,3,3,4,4,4,4,4,4,4,4,4,4,4,4,4,4,4,4,4,4,4,4,4,4,4,4,4,4,4,4,4,4,4,4,4,4,4,4,4,7,7,7,7,7,7,7,7,7,7,8,8,8,8,8,8,8,8,8,8,8,8,8,8,11,11,11,11,11,11,11,11,11,11,11,11,11,11,12,12,12,12,12,12,12,12,12,12,12,12,12,12,12,12,12,12,12,12,12,12,12,12,12,12,12,12,17,17,17,17,17,17,17,17,17,20,20,20,20,20,20,20,20,20,20,21,21,21,21,21,21,21,21,21,25,25,25,25,25,25,25,25,25,25,25,25,25,25],["green-21","green-21","green-21","pink-21","pink-21","pink-21","green-21","green-21","green-21","pink-21","pink-21","pink-21","green-21","green-21","green-21","green-21","green-21","green-21","green-21","green-21","green-21","pink-21","pink-21","pink-21","pink-21","pink-21","pink-21","green-21","green-21","green-21","pink-21","pink-21","pink-21","green-21","green-21","green-21","pink","pink","pink","pink","pink","pink","pink","pink","pink","pink","pink","pink","pink","pink","pink","pink","pink","pink","pink","pink","pink","pink","pink","pink","pink","pink","pink","pink","pink","pink","pink","pink","green","green","green","green","green","green","green","green","green","green","green","green","green","green","green","green","green","green","green","green","green","green","green","green","green","blue","blue","blue","blue","blue","blue","blue","blue","blue","blue","blue","blue","blue","blue","blue","blue","blue","blue","blue","blue","blue","blue","blue","blue","blue","blue","blue","blue","blue","blue","blue","blue","blue","blue","blue","pink","pink","pink","pink","pink","pink","pink","pink","pink","pink","pink","pink","pink","pink","pink","pink","pink","pink","pink","pink","green","green","green","green","green","green","green","green","green","green","green","green","green","green","green","green","green","green","green","green","green","green","green","green","green","green","green","green","green","green","blue","blue","blue","blue","blue","blue","blue","blue","blue","blue","blue","blue","blue","blue","blue","blue","blue","blue","blue","blue","blue","blue","blue","blue","blue","pink","pink","pink","pink","pink","pink","pink","pink","pink","pink","pink","pink","green","green","green","green","green","green","green","green","green","green","blue","blue","blue","blue","blue","blue","blue","blue","blue","blue","blue","blue","blue","blue","blue","green","green","green","green","green","blue","blue","blue","blue","blue","pink","pink","pink","pink","green","green","green","green","green","blue","blue","blue","blue","blue","pink","pink","pink","pink","blue","blue","blue","blue","blue","blue","blue","blue","blue","blue","pink","pink","pink","pink","pink","pink","pink","pink","green","green","green","green","green","green","green","green","green","green","blue","blue","blue","blue","blue","blue","blue","blue","blue","blue","pink","pink","pink","pink","green","green","green","green","green","green","green","green","green","green","blue","blue","blue","blue","blue","pink","pink","pink","pink","green","green","green","green","green","pink","pink","pink","pink","green","green","green","green","green","blue","blue","blue","blue","blue"],["2021-08-24","2021-08-25","2021-08-26","2021-08-26","2021-08-27","2021-08-28","2021-08-23","2021-08-24","2021-08-25","2021-08-25","2021-08-26","2021-08-27","2021-08-24","2021-08-25","2021-08-26","2021-08-24","2021-08-25","2021-08-26","2021-08-23","2021-08-24","2021-08-25","2021-08-25","2021-08-26","2021-08-27","2021-08-26","2021-08-27","2021-08-28","2021-08-23","2021-08-24","2021-08-25","2021-08-25","2021-08-26","2021-08-27","2021-08-23","2021-08-24","2021-08-25","2022-08-16","2022-08-16","2022-08-16","2022-08-16","2022-08-16","2022-08-16","2022-08-16","2022-08-16","2022-08-16","2022-08-16","2022-08-16","2022-08-16","2022-08-16","2022-08-16","2022-08-16","2022-08-16","2022-08-16","2022-08-16","2022-08-16","2022-08-16","2022-08-16","2022-08-16","2022-08-16","2022-08-16","2022-08-16","2022-08-16","2022-08-16","2022-08-16","2022-08-16","2022-08-16","2022-08-16","2022-08-16","2022-08-22","2022-08-22","2022-08-22","2022-08-22","2022-08-22","2022-08-22","2022-08-22","2022-08-22","2022-08-22","2022-08-22","2022-08-22","2022-08-22","2022-08-22","2022-08-22","2022-08-22","2022-08-22","2022-08-22","2022-08-22","2022-08-22","2022-08-22","2022-08-22","2022-08-22","2022-08-22","2022-08-22","2022-08-22","2022-08-26","2022-08-26","2022-08-26","2022-08-26","2022-08-26","2022-08-26","2022-08-26","2022-08-26","2022-08-26","2022-08-26","2022-08-26","2022-08-26","2022-08-26","2022-08-26","2022-08-26","2022-08-26","2022-08-26","2022-08-26","2022-08-26","2022-08-26","2022-08-26","2022-08-26","2022-08-26","2022-08-26","2022-08-26","2022-08-26","2022-08-26","2022-08-26","2022-08-26","2022-08-26","2022-08-26","2022-08-26","2022-08-26","2022-08-26","2022-08-26","2022-08-16","2022-08-16","2022-08-16","2022-08-16","2022-08-16","2022-08-16","2022-08-16","2022-08-16","2022-08-16","2022-08-16","2022-08-16","2022-08-16","2022-08-16","2022-08-16","2022-08-16","2022-08-16","2022-08-16","2022-08-16","2022-08-16","2022-08-16","2022-08-22","2022-08-22","2022-08-22","2022-08-22","2022-08-22","2022-08-22","2022-08-22","2022-08-22","2022-08-22","2022-08-22","2022-08-22","2022-08-22","2022-08-22","2022-08-22","2022-08-22","2022-08-22","2022-08-22","2022-08-22","2022-08-22","2022-08-22","2022-08-22","2022-08-22","2022-08-22","2022-08-22","2022-08-22","2022-08-22","2022-08-22","2022-08-22","2022-08-22","2022-08-22","2022-08-26","2022-08-26","2022-08-26","2022-08-26","2022-08-26","2022-08-26","2022-08-26","2022-08-26","2022-08-26","2022-08-26","2022-08-26","2022-08-26","2022-08-26","2022-08-26","2022-08-26","2022-08-26","2022-08-26","2022-08-26","2022-08-26","2022-08-26","2022-08-26","2022-08-26","2022-08-26","2022-08-26","2022-08-26","2022-08-16","2022-08-16","2022-08-16","2022-08-16","2022-08-16","2022-08-16","2022-08-16","2022-08-16","2022-08-16","2022-08-16","2022-08-16","2022-08-16","2022-08-22","2022-08-22","2022-08-22","2022-08-22","2022-08-22","2022-08-22","2022-08-22","2022-08-22","2022-08-22","2022-08-22","2022-08-26","2022-08-26","2022-08-26","2022-08-26","2022-08-26","2022-08-26","2022-08-26","2022-08-26","2022-08-26","2022-08-26","2022-08-26","2022-08-26","2022-08-26","2022-08-26","2022-08-26","2022-08-22","2022-08-22","2022-08-22","2022-08-22","2022-08-22","2022-08-26","2022-08-26","2022-08-26","2022-08-26","2022-08-26","2022-08-16","2022-08-16","2022-08-16","2022-08-16","2022-08-22","2022-08-22","2022-08-22","2022-08-22","2022-08-22","2022-08-26","2022-08-26","2022-08-26","2022-08-26","2022-08-26","2022-08-16","2022-08-16","2022-08-16","2022-08-16","2022-08-26","2022-08-26","2022-08-26","2022-08-26","2022-08-26","2022-08-26","2022-08-26","2022-08-26","2022-08-26","2022-08-26","2022-08-16","2022-08-16","2022-08-16","2022-08-16","2022-08-16","2022-08-16","2022-08-16","2022-08-16","2022-08-22","2022-08-22","2022-08-22","2022-08-22","2022-08-22","2022-08-22","2022-08-22","2022-08-22","2022-08-22","2022-08-22","2022-08-26","2022-08-26","2022-08-26","2022-08-26","2022-08-26","2022-08-26","2022-08-26","2022-08-26","2022-08-26","2022-08-26","2022-08-16","2022-08-16","2022-08-16","2022-08-16","2022-08-22","2022-08-22","2022-08-22","2022-08-22","2022-08-22","2022-08-22","2022-08-22","2022-08-22","2022-08-22","2022-08-22","2022-08-26","2022-08-26","2022-08-26","2022-08-26","2022-08-26","2022-08-16","2022-08-16","2022-08-16","2022-08-16","2022-08-22","2022-08-22","2022-08-22","2022-08-22","2022-08-22","2022-08-16","2022-08-16","2022-08-16","2022-08-16","2022-08-22","2022-08-22","2022-08-22","2022-08-22","2022-08-22","2022-08-26","2022-08-26","2022-08-26","2022-08-26","2022-08-26"],["D1_bN","D2_bN","D3_bN","D1_bN","D2_bN","D3_bN","D1_bN","D2_bN","D3_bN","D1_bN","D2_bN","D3_bN","D1_bN","D2_bN","D3_bN","D1_bN","D2_bN","D3_bN","D1_bN","D2_bN","D3_bN","D1_bN","D2_bN","D3_bN","D1_bN","D2_bN","D3_bN","D1_bN","D2_bN","D3_bN","D1_bN","D2_bN","D3_bN","D1_bN","D2_bN","D3_bN","D1_bN","D2_M","D2_bN","D3_bN","D1_bN","D2_M","D2_bN","D3_bN","D1_bN","D2_M","D2_bN","D3_bN","D1_bN","D2_M","D2_bN","D3_bN","D1_bN","D2_M","D2_bN","D3_bN","D1_bN","D2_M","D2_bN","D3_bN","D1_bN","D1_bN","D2_M","D2_M","D2_bN","D2_bN","D3_bN","D3_bN","D1_bN","D1_aN","D2_M","D2_bN","D4_bN","D1_bN","D1_aN","D2_M","D2_bN","D4_bN","D1_bN","D1_aN","D2_M","D2_bN","D4_bN","D1_bN","D1_aN","D2_M","D2_bN","D4_bN","D1_bN","D1_aN","D2_M","D2_bN","D4_bN","D1_bN","D2_M","D2_aN","D3_bN","D4_M","D1_bN","D2_M","D2_aN","D3_bN","D4_M","D1_bN","D2_M","D2_aN","D3_bN","D4_M","D1_bN","D2_M","D2_aN","D3_bN","D4_M","D1_bN","D2_M","D2_aN","D3_bN","D4_M","D1_bN","D2_M","D2_aN","D3_bN","D4_M","D1_bN","D2_M","D2_aN","D3_bN","D4_M","D1_bN","D2_M","D2_bN","D3_bN","D1_bN","D2_M","D2_bN","D3_bN","D1_bN","D2_M","D2_bN","D3_bN","D1_bN","D2_M","D2_bN","D3_bN","D1_bN","D2_M","D2_bN","D3_bN","D1_bN","D1_aN","D2_M","D2_bN","D4_bN","D1_bN","D1_aN","D2_M","D2_bN","D4_bN","D1_bN","D1_aN","D2_M","D2_bN","D4_bN","D1_bN","D1_aN","D2_M","D2_bN","D4_bN","D1_bN","D1_aN","D2_M","D2_bN","D4_bN","D1_bN","D1_aN","D2_M","D2_bN","D4_bN","D1_bN","D2_M","D2_aN","D3_bN","D4_M","D1_bN","D2_M","D2_aN","D3_bN","D4_M","D1_bN","D2_M","D2_aN","D3_bN","D4_M","D1_bN","D2_M","D2_aN","D3_bN","D4_M","D1_bN","D2_M","D2_aN","D3_bN","D4_M","D1_bN","D2_M","D2_bN","D3_bN","D1_bN","D2_M","D2_bN","D3_bN","D1_bN","D2_M","D2_bN","D3_bN","D1_bN","D1_aN","D2_M","D2_bN","D4_bN","D1_bN","D1_aN","D2_M","D2_bN","D4_bN","D1_bN","D2_M","D2_aN","D3_bN","D4_M","D1_bN","D2_M","D2_aN","D3_bN","D4_M","D1_bN","D2_M","D2_aN","D3_bN","D4_M","D1_bN","D1_aN","D2_M","D2_bN","D4_bN","D1_bN","D2_M","D2_aN","D3_bN","D4_M","D1_bN","D2_M","D2_bN","D3_bN","D1_bN","D1_aN","D2_M","D2_bN","D4_bN","D1_bN","D2_M","D2_aN","D3_bN","D4_M","D1_bN","D2_M","D2_bN","D3_bN","D1_bN","D2_M","D2_aN","D3_bN","D4_M","D1_bN","D2_M","D2_aN","D3_bN","D4_M","D1_bN","D2_M","D2_bN","D3_bN","D1_bN","D2_M","D2_bN","D3_bN","D1_bN","D1_aN","D2_M","D2_bN","D4_bN","D1_bN","D1_aN","D2_M","D2_bN","D4_bN","D1_bN","D2_M","D2_aN","D3_bN","D4_M","D1_bN","D2_M","D2_aN","D3_bN","D4_M","D1_bN","D2_M","D2_bN","D3_bN","D1_bN","D1_aN","D2_M","D2_bN","D4_bN","D1_bN","D1_aN","D2_M","D2_bN","D4_bN","D1_bN","D2_M","D2_aN","D3_bN","D4_M","D1_bN","D2_M","D2_bN","D3_bN","D1_bN","D1_aN","D2_M","D2_bN","D4_bN","D1_bN","D2_M","D2_bN","D3_bN","D1_bN","D1_aN","D2_M","D2_bN","D4_bN","D1_bN","D2_M","D2_aN","D3_bN","D4_M"],[0.6,0.92,0.98,0.58,0.76,0.88,0.8,0.8,0.82,0.62,0.7,0.74,0.36,0.78,0.88,0.52,0.92,0.94,0.22,0.58,0.72,0.64,0.7,0.76,0.92,0.96,1,0.6,0.74,0.82,0.7,0.775,0.775,0.96,0.96,0.98,0.59,0.64,0.74,0.76,0.6,0.6,0.86,0.88,0.06,0.33,0.62,0.74,0.2,0.28,0.44,0.46,0.65,0.85,0.87,0.87,0.06,0.58,0.87,0.87,0.04,0.04,0.33,0.33,0.44,0.44,0.53,0.53,0.28,0.64,0.7,0.7,0.76,0.4,0.64,0.66,0.7,0.78,0.58,0.92,0.94,0.96,1,0.22,0.74,0.84,0.84,0.86,0.88,1.08,1.14,1.14,1.14,0.73,0.85,0.87,0.85,0.85,0.76,0.86,0.9,0.86,0.86,0.5,0.56,0.62,0.62,0.64,0.08,0.68,0.82,0.68,0.74,0.22,0.74,0.8,0.76,0.76,0,0.42,0.48,0.52,0.6,0.82,0.88,0.88,0.92,0.92,0.44,0.58,0.6,0.64,0.14,0.5,0.62,0.74,0.44,0.44,0.72,0.72,0.34,0.36,0.68,0.82,0.5,0.56,0.82,0.82,0.19,0.59,0.69,0.71,0.71,0.36,0.68,0.76,0.86,0.86,0.45,0.61,0.67,0.77,0.79,0.8,0.9,0.9,0.92,0.96,0.3,0.36,0.36,0.36,0.38,0.57,0.75,0.77,0.77,0.77,0.26,0.84,0.84,0.88,0.88,0.36,0.84,0.94,0.88,0.88,0.16,0.66,0.72,0.72,0.74,0.16,0.42,0.72,0.54,0.6,0.04,0.66,0.8,0.74,0.74,0.02,0.18,0.28,0.42,0.41,0.45,0.57,0.63,0.48,0.7,0.7,0.88,0.44,0.44,0.68,0.68,0.82,0.42,0.8,0.8,0.82,0.82,0.16,0.78,0.78,0.8,0.82,0.2,0.88,0.92,0.88,0.88,0.9,1.02,1.02,1.02,1.02,0.28,0.62,0.64,0.68,0.68,0.54,0.62,0.68,0.66,0.66,0.4,0.5,0.62,0.72,0.6,0.72,0.94,0.96,0.96,0.94,0.96,0.96,0.96,0.96,0.34,0.58,0.58,0.6,0,0.19,0.19,0.28,0.28,0.38,0.72,0.76,0.74,0.74,0.12,0.42,0.78,0.82,0,0,0.06,0.1,0.56,0.88,0.9,0.92,0.92,0.04,0.32,0.32,0.36,0.4,0.7,0.88,0.94,0.9,0.9,0.12,0.48,0.56,0.54,0.64,0.04,0.22,0.8,0.8,0.22,0.22,0.32,0.42,0.42,0.07,0.41,0.46,0.53,0.58,0.66,0.94,0.96,0.94,0.94,0.1,0.14,0.66,0.66,0,0.42,0.74,0.76,0.76,0.04,0.1,0.32,0.32,0.08,0.34,0.58,0.62,0.64,0.82,0.86,0.9,0.9,0.9],[0.02,0.03,0.03,0.01,0.02,0.02,0.04,0.04,0.04,0.02,0.02,0.02,0.01,0.03,0.04,0.02,0.04,0.04,0,0.01,0.01,0.01,0.01,0.01,0.02,0.02,0.02,0.01,0.01,0.01,0.02,0.03,0.03,0.01,0.01,0.01,0.01,0.01,0.02,0.02,0.05,0.05,0.07,0.07,0,0.01,0.02,0.03,0.01,0.01,0.02,0.02,0.01,0.01,0.01,0.01,0,0.04,0.06,0.06,0,0.01,0.01,0.07,0.01,0.09,0.01,0.11,0.04,0.08,0.09,0.09,0.1,0.02,0.03,0.03,0.03,0.04,0.01,0.02,0.02,0.02,0.02,0,0.01,0.01,0.01,0.01,0.02,0.02,0.02,0.02,0.02,0.05,0.05,0.05,0.05,0.05,0.04,0.05,0.05,0.05,0.05,0.06,0.06,0.07,0.07,0.07,0.01,0.05,0.06,0.05,0.05,0.01,0.02,0.02,0.02,0.02,0,0.06,0.07,0.07,0.09,0.02,0.02,0.02,0.02,0.02,0.01,0.01,0.01,0.01,0,0.02,0.02,0.02,0.01,0.01,0.02,0.02,0.01,0.01,0.01,0.02,0.01,0.01,0.02,0.02,0.01,0.02,0.02,0.02,0.02,0.01,0.02,0.02,0.03,0.03,0,0,0.01,0.01,0.01,0.01,0.01,0.01,0.01,0.01,0,0,0,0,0,0.03,0.04,0.05,0.05,0.05,0,0.01,0.01,0.01,0.01,0.01,0.02,0.02,0.02,0.02,0.01,0.03,0.04,0.04,0.04,0,0,0.01,0,0.01,0,0.02,0.02,0.02,0.02,0,0,0,0.01,0,0,0.01,0.01,0,0.01,0.01,0.01,0.01,0.01,0.01,0.01,0.01,0,0.01,0.01,0.01,0.01,0,0.01,0.01,0.01,0.01,0,0.02,0.02,0.02,0.02,0.01,0.01,0.01,0.01,0.01,0,0.01,0.01,0.01,0.01,0.01,0.01,0.01,0.01,0.01,0.01,0.01,0.01,0.01,0.01,0.01,0.02,0.02,0.02,0.01,0.01,0.01,0.01,0.01,0,0.01,0.01,0.01,0,0.02,0.02,0.03,0.03,0.01,0.03,0.03,0.03,0.03,0.01,0.02,0.04,0.04,0,0,0,0.01,0.01,0.02,0.02,0.02,0.02,0,0.04,0.04,0.04,0.05,0.03,0.04,0.04,0.04,0.04,0.02,0.07,0.08,0.08,0.09,0,0.01,0.02,0.02,0.04,0.04,0.05,0.07,0.07,0,0.01,0.01,0.01,0.01,0.01,0.01,0.01,0.01,0.01,0,0,0.02,0.02,0,0.02,0.03,0.03,0.03,0,0,0,0,0,0.01,0.01,0.01,0.02,0.04,0.05,0.05,0.05,0.05]],"container":"<table class=\"display\">\n  <thead>\n    <tr>\n      <th>colonyID<\/th>\n      <th>age_obs<\/th>\n      <th>bead_color<\/th>\n      <th>date<\/th>\n      <th>counted_when<\/th>\n      <th>cum_prop<\/th>\n      <th>s_cum_prop<\/th>\n    <\/tr>\n  <\/thead>\n<\/table>","options":{"columnDefs":[{"className":"dt-right","targets":[1,5,6]}],"order":[],"autoWidth":false,"orderClasses":false}},"evals":[],"jsHooks":[]}</script>
 </div>
 
 
